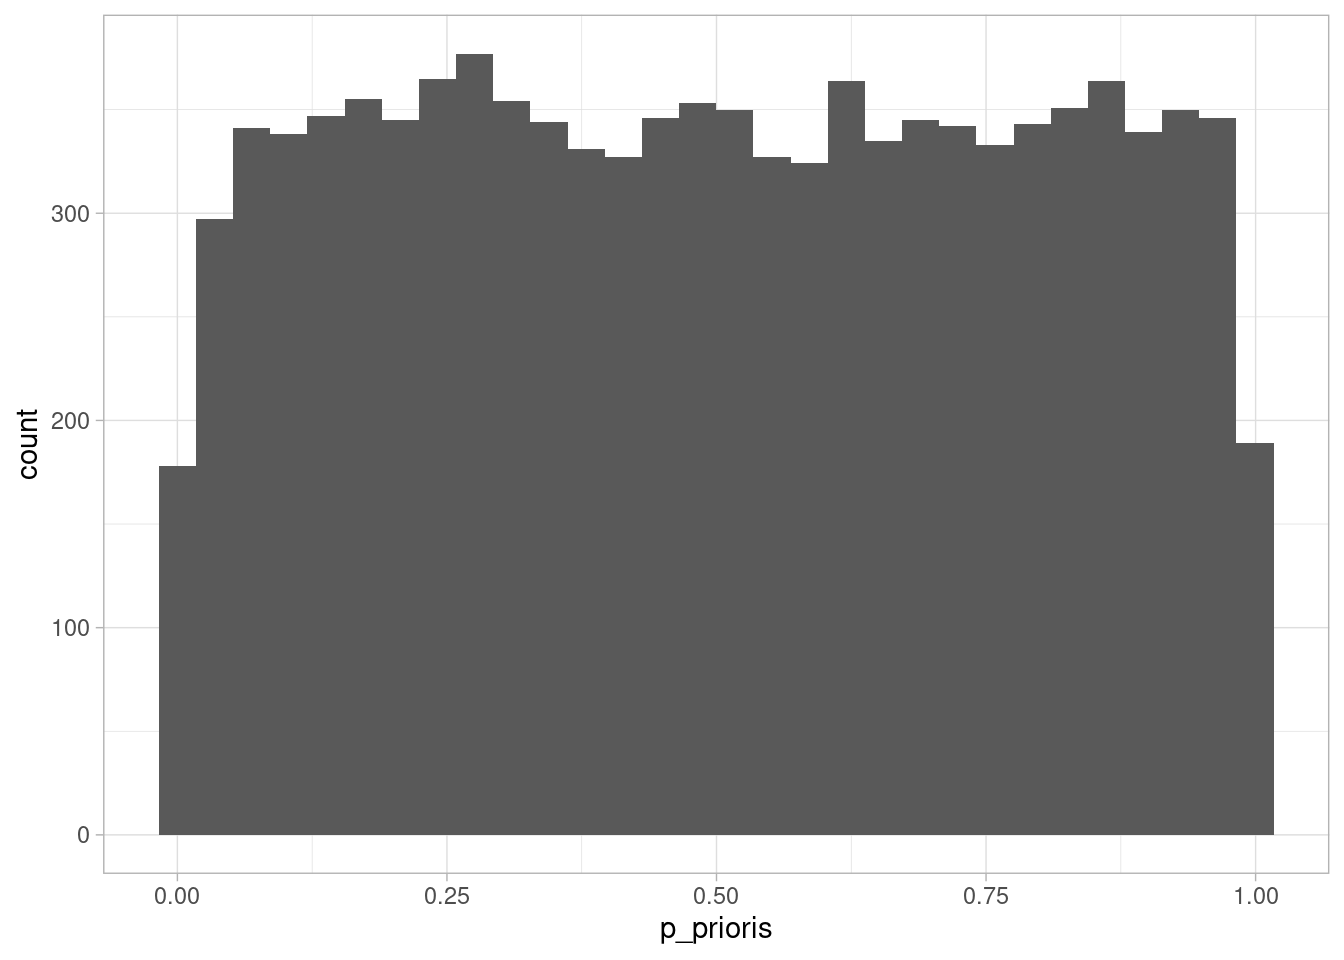
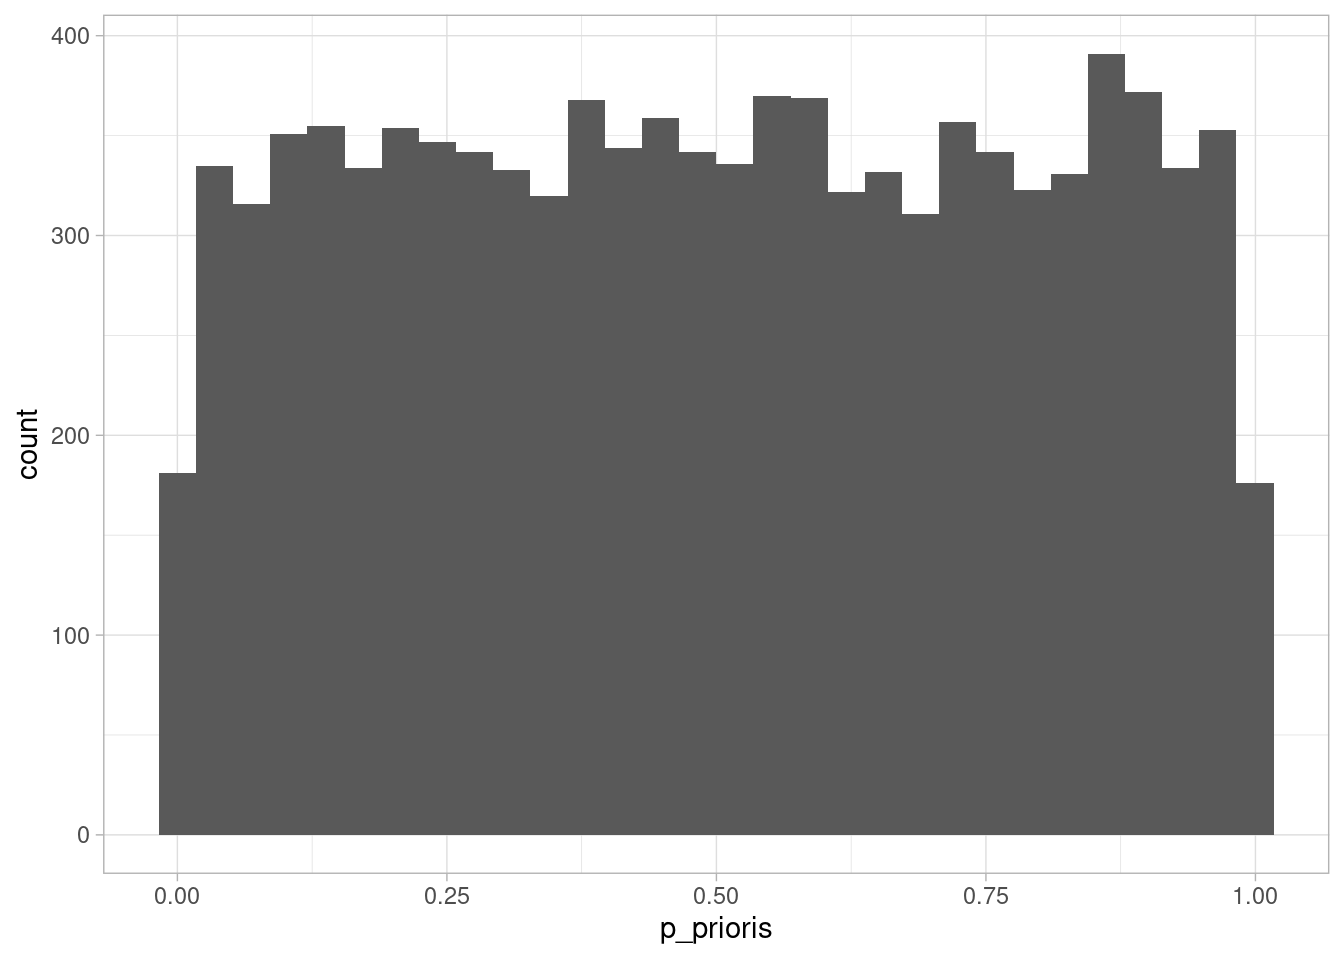
sigo probando freeze

diff --git a/_site/posts/2023-06-24-bayes-y-monedas/index.html b/_site/posts/2023-06-24-bayes-y-monedas/index.html
@@ -9,7 +9,7 @@
 <meta name="author" content="Leonardo Hansa">
 <meta name="description" content="Experimentos estadísticos frecuentistas y bayesianos en lanzamiento de monedas.">
 
-<title>Longitud sin anchura - Cara o cruz, modo Bayes</title>
+<title>Longitud sin anchura - Cara o cruz, modo Bayes (I)</title>
 <style>
 code{white-space: pre-wrap;}
 span.smallcaps{font-variant: small-caps;}
@@ -156,7 +156,15 @@ cookieconsent.run({
     <span class="navbar-title">Longitud sin anchura</span>
     </a>
   </div>
-          <div id="quarto-search" class="" title="Search"></div>
+          <ul class="navbar-nav navbar-nav-scroll me-auto">
+  <li class="dropdown-header">
+ <span class="menu-text">Cu-cu-trás</span></li>
+  <li class="nav-item compact">
+    <a class="nav-link" href="https://leonardohansa.com">
+ <span class="menu-text"></span></a>
+  </li>  
+</ul>
+            <div id="quarto-search" class="" title="Search"></div>
       </div> <!-- /container-fluid -->
     </nav>
 </header>
@@ -164,7 +172,7 @@ cookieconsent.run({
 <header id="title-block-header" class="quarto-title-block default page-columns page-full">
   <div class="quarto-title-banner page-columns page-full">
     <div class="quarto-title column-body">
-      <h1 class="title">Cara o cruz, modo Bayes</h1>
+      <h1 class="title">Cara o cruz, modo Bayes (I)</h1>
                   <div>
         <div class="description">
           Experimentos estadísticos frecuentistas y bayesianos en lanzamiento de monedas.
@@ -286,12 +294,12 @@ probability of success
 <div class="cell">
 <div class="cell-output cell-output-stdout">
 <pre><code>   p_priori number_of_heads
-1 0.9526736              97
-2 0.3576143              31
-3 0.9580267              96
-4 0.8122705              78
-5 0.2026850              28
-6 0.9780546             100</code></pre>
+1 0.3079157              35
+2 0.2809552              28
+3 0.2420629              27
+4 0.4609299              56
+5 0.7920165              80
+6 0.8061816              83</code></pre>
 </div>
 </div>
 <p>En esa tabla podemos quedarnos solo con los casos en los que obtienes 60 caras. Y en esos casos observas la probabilidad de obtener cara.</p>
@@ -305,7 +313,7 @@ probability of success
 <div class="cell">
 <div class="cell-output cell-output-stdout">
 <pre><code>   Min. 1st Qu.  Median    Mean 3rd Qu.    Max. 
- 0.4609  0.5642  0.5938  0.5924  0.6223  0.7104 </code></pre>
+ 0.4886  0.5715  0.5981  0.6010  0.6325  0.7388 </code></pre>
 </div>
 </div>
 <p>Esos números ya no siguen la distribución uniforme a priori de antes, en la que indicabas que no sabías nada de la moneda.</p>

diff --git a/_site/index.html b/_site/index.html
@@ -123,7 +123,15 @@ cookieconsent.run({
     <span class="navbar-title">Longitud sin anchura</span>
     </a>
   </div>
-          <div id="quarto-search" class="" title="Search"></div>
+          <ul class="navbar-nav navbar-nav-scroll me-auto">
+  <li class="dropdown-header">
+ <span class="menu-text">Cu-cu-trás</span></li>
+  <li class="nav-item compact">
+    <a class="nav-link" href="https://leonardohansa.com">
+ <span class="menu-text"></span></a>
+  </li>  
+</ul>
+            <div id="quarto-search" class="" title="Search"></div>
       </div> <!-- /container-fluid -->
     </nav>
 </header>
@@ -147,11 +155,11 @@ cookieconsent.run({
 
 <div class="quarto-listing quarto-listing-container-default" id="listing-listing">
 <div class="list quarto-listing-default">
-<div class="quarto-post image-right" data-index="0" data-categories="datos" data-listing-date-sort="1687557600000" data-listing-file-modified-sort="1687633257641" data-listing-reading-time-sort="3.59">
+<div class="quarto-post image-right" data-index="0" data-categories="datos" data-listing-date-sort="1687557600000" data-listing-file-modified-sort="1687885723890" data-listing-reading-time-sort="3.59">
 <div class="body">
 <a href="./posts/2023-06-24-bayes-y-monedas/index.html">
 <h3 class="no-anchor listing-title">
-Cara o cruz, modo Bayes
+Cara o cruz, modo Bayes (I)
 </h3>
 <div class="listing-subtitle">
 

diff --git a/_site/posts/2022-08-06-mi-ipc-es-incluso-m-s-alto/index.html b/_site/posts/2022-08-06-mi-ipc-es-incluso-m-s-alto/index.html
@@ -156,7 +156,15 @@ cookieconsent.run({
     <span class="navbar-title">Longitud sin anchura</span>
     </a>
   </div>
-          <div id="quarto-search" class="" title="Search"></div>
+          <ul class="navbar-nav navbar-nav-scroll me-auto">
+  <li class="dropdown-header">
+ <span class="menu-text">Cu-cu-trás</span></li>
+  <li class="nav-item compact">
+    <a class="nav-link" href="https://leonardohansa.com">
+ <span class="menu-text"></span></a>
+  </li>  
+</ul>
+            <div id="quarto-search" class="" title="Search"></div>
       </div> <!-- /container-fluid -->
     </nav>
 </header>

diff --git a/_site/404.html b/_site/404.html
@@ -91,7 +91,15 @@ cookieconsent.run({
     <span class="navbar-title">Longitud sin anchura</span>
     </a>
   </div>
-          <div id="quarto-search" class="" title="Search"></div>
+          <ul class="navbar-nav navbar-nav-scroll me-auto">
+  <li class="dropdown-header">
+ <span class="menu-text">Cu-cu-trás</span></li>
+  <li class="nav-item compact">
+    <a class="nav-link" href="https://leonardohansa.com">
+ <span class="menu-text"></span></a>
+  </li>  
+</ul>
+            <div id="quarto-search" class="" title="Search"></div>
       </div> <!-- /container-fluid -->
     </nav>
 </header>

diff --git a/_site/about.html b/_site/about.html
@@ -90,7 +90,15 @@ cookieconsent.run({
     <span class="navbar-title">Longitud sin anchura</span>
     </a>
   </div>
-          <div id="quarto-search" class="" title="Search"></div>
+          <ul class="navbar-nav navbar-nav-scroll me-auto">
+  <li class="dropdown-header">
+ <span class="menu-text">Cu-cu-trás</span></li>
+  <li class="nav-item compact">
+    <a class="nav-link" href="https://leonardohansa.com">
+ <span class="menu-text"></span></a>
+  </li>  
+</ul>
+            <div id="quarto-search" class="" title="Search"></div>
       </div> <!-- /container-fluid -->
     </nav>
 </header>

diff --git a/_site/posts/2020-05-24-literatura-y-totalitarismo/index.html b/_site/posts/2020-05-24-literatura-y-totalitarismo/index.html
@@ -93,7 +93,15 @@ cookieconsent.run({
     <span class="navbar-title">Longitud sin anchura</span>
     </a>
   </div>
-          <div id="quarto-search" class="" title="Search"></div>
+          <ul class="navbar-nav navbar-nav-scroll me-auto">
+  <li class="dropdown-header">
+ <span class="menu-text">Cu-cu-trás</span></li>
+  <li class="nav-item compact">
+    <a class="nav-link" href="https://leonardohansa.com">
+ <span class="menu-text"></span></a>
+  </li>  
+</ul>
+            <div id="quarto-search" class="" title="Search"></div>
       </div> <!-- /container-fluid -->
     </nav>
 </header>

diff --git a/_site/posts/2021-12-26-burbuja-tur-stica/index.html b/_site/posts/2021-12-26-burbuja-tur-stica/index.html
@@ -93,7 +93,15 @@ cookieconsent.run({
     <span class="navbar-title">Longitud sin anchura</span>
     </a>
   </div>
-          <div id="quarto-search" class="" title="Search"></div>
+          <ul class="navbar-nav navbar-nav-scroll me-auto">
+  <li class="dropdown-header">
+ <span class="menu-text">Cu-cu-trás</span></li>
+  <li class="nav-item compact">
+    <a class="nav-link" href="https://leonardohansa.com">
+ <span class="menu-text"></span></a>
+  </li>  
+</ul>
+            <div id="quarto-search" class="" title="Search"></div>
       </div> <!-- /container-fluid -->
     </nav>
 </header>

diff --git a/_site/posts/2022-08-05-el-sutil-arte-de-que-todo-te-importe-una-mierda/index.html b/_site/posts/2022-08-05-el-sutil-arte-de-que-todo-te-importe-una-mierda/index.html
@@ -93,7 +93,15 @@ cookieconsent.run({
     <span class="navbar-title">Longitud sin anchura</span>
     </a>
   </div>
-          <div id="quarto-search" class="" title="Search"></div>
+          <ul class="navbar-nav navbar-nav-scroll me-auto">
+  <li class="dropdown-header">
+ <span class="menu-text">Cu-cu-trás</span></li>
+  <li class="nav-item compact">
+    <a class="nav-link" href="https://leonardohansa.com">
+ <span class="menu-text"></span></a>
+  </li>  
+</ul>
+            <div id="quarto-search" class="" title="Search"></div>
       </div> <!-- /container-fluid -->
     </nav>
 </header>

diff --git a/_site/posts/2022-08-07-nate-silver-describe-el-comienzo-de-una-pandemia-que-no-fue/index.html b/_site/posts/2022-08-07-nate-silver-describe-el-comienzo-de-una-pandemia-que-no-fue/index.html
@@ -93,7 +93,15 @@ cookieconsent.run({
     <span class="navbar-title">Longitud sin anchura</span>
     </a>
   </div>
-          <div id="quarto-search" class="" title="Search"></div>
+          <ul class="navbar-nav navbar-nav-scroll me-auto">
+  <li class="dropdown-header">
+ <span class="menu-text">Cu-cu-trás</span></li>
+  <li class="nav-item compact">
+    <a class="nav-link" href="https://leonardohansa.com">
+ <span class="menu-text"></span></a>
+  </li>  
+</ul>
+            <div id="quarto-search" class="" title="Search"></div>
       </div> <!-- /container-fluid -->
     </nav>
 </header>

diff --git a/_site/posts/2022-08-09-los-problemas-de-la-moralidad/index.html b/_site/posts/2022-08-09-los-problemas-de-la-moralidad/index.html
@@ -93,7 +93,15 @@ cookieconsent.run({
     <span class="navbar-title">Longitud sin anchura</span>
     </a>
   </div>
-          <div id="quarto-search" class="" title="Search"></div>
+          <ul class="navbar-nav navbar-nav-scroll me-auto">
+  <li class="dropdown-header">
+ <span class="menu-text">Cu-cu-trás</span></li>
+  <li class="nav-item compact">
+    <a class="nav-link" href="https://leonardohansa.com">
+ <span class="menu-text"></span></a>
+  </li>  
+</ul>
+            <div id="quarto-search" class="" title="Search"></div>
       </div> <!-- /container-fluid -->
     </nav>
 </header>

diff --git a/_site/posts/2022-09-03-el-lecho-de-procusto/index.html b/_site/posts/2022-09-03-el-lecho-de-procusto/index.html
@@ -93,7 +93,15 @@ cookieconsent.run({
     <span class="navbar-title">Longitud sin anchura</span>
     </a>
   </div>
-          <div id="quarto-search" class="" title="Search"></div>
+          <ul class="navbar-nav navbar-nav-scroll me-auto">
+  <li class="dropdown-header">
+ <span class="menu-text">Cu-cu-trás</span></li>
+  <li class="nav-item compact">
+    <a class="nav-link" href="https://leonardohansa.com">
+ <span class="menu-text"></span></a>
+  </li>  
+</ul>
+            <div id="quarto-search" class="" title="Search"></div>
       </div> <!-- /container-fluid -->
     </nav>
 </header>

diff --git a/_site/posts/2022-09-11-rompe-la-barrera-del-no/index.html b/_site/posts/2022-09-11-rompe-la-barrera-del-no/index.html
@@ -93,7 +93,15 @@ cookieconsent.run({
     <span class="navbar-title">Longitud sin anchura</span>
     </a>
   </div>
-          <div id="quarto-search" class="" title="Search"></div>
+          <ul class="navbar-nav navbar-nav-scroll me-auto">
+  <li class="dropdown-header">
+ <span class="menu-text">Cu-cu-trás</span></li>
+  <li class="nav-item compact">
+    <a class="nav-link" href="https://leonardohansa.com">
+ <span class="menu-text"></span></a>
+  </li>  
+</ul>
+            <div id="quarto-search" class="" title="Search"></div>
       </div> <!-- /container-fluid -->
     </nav>
 </header>
